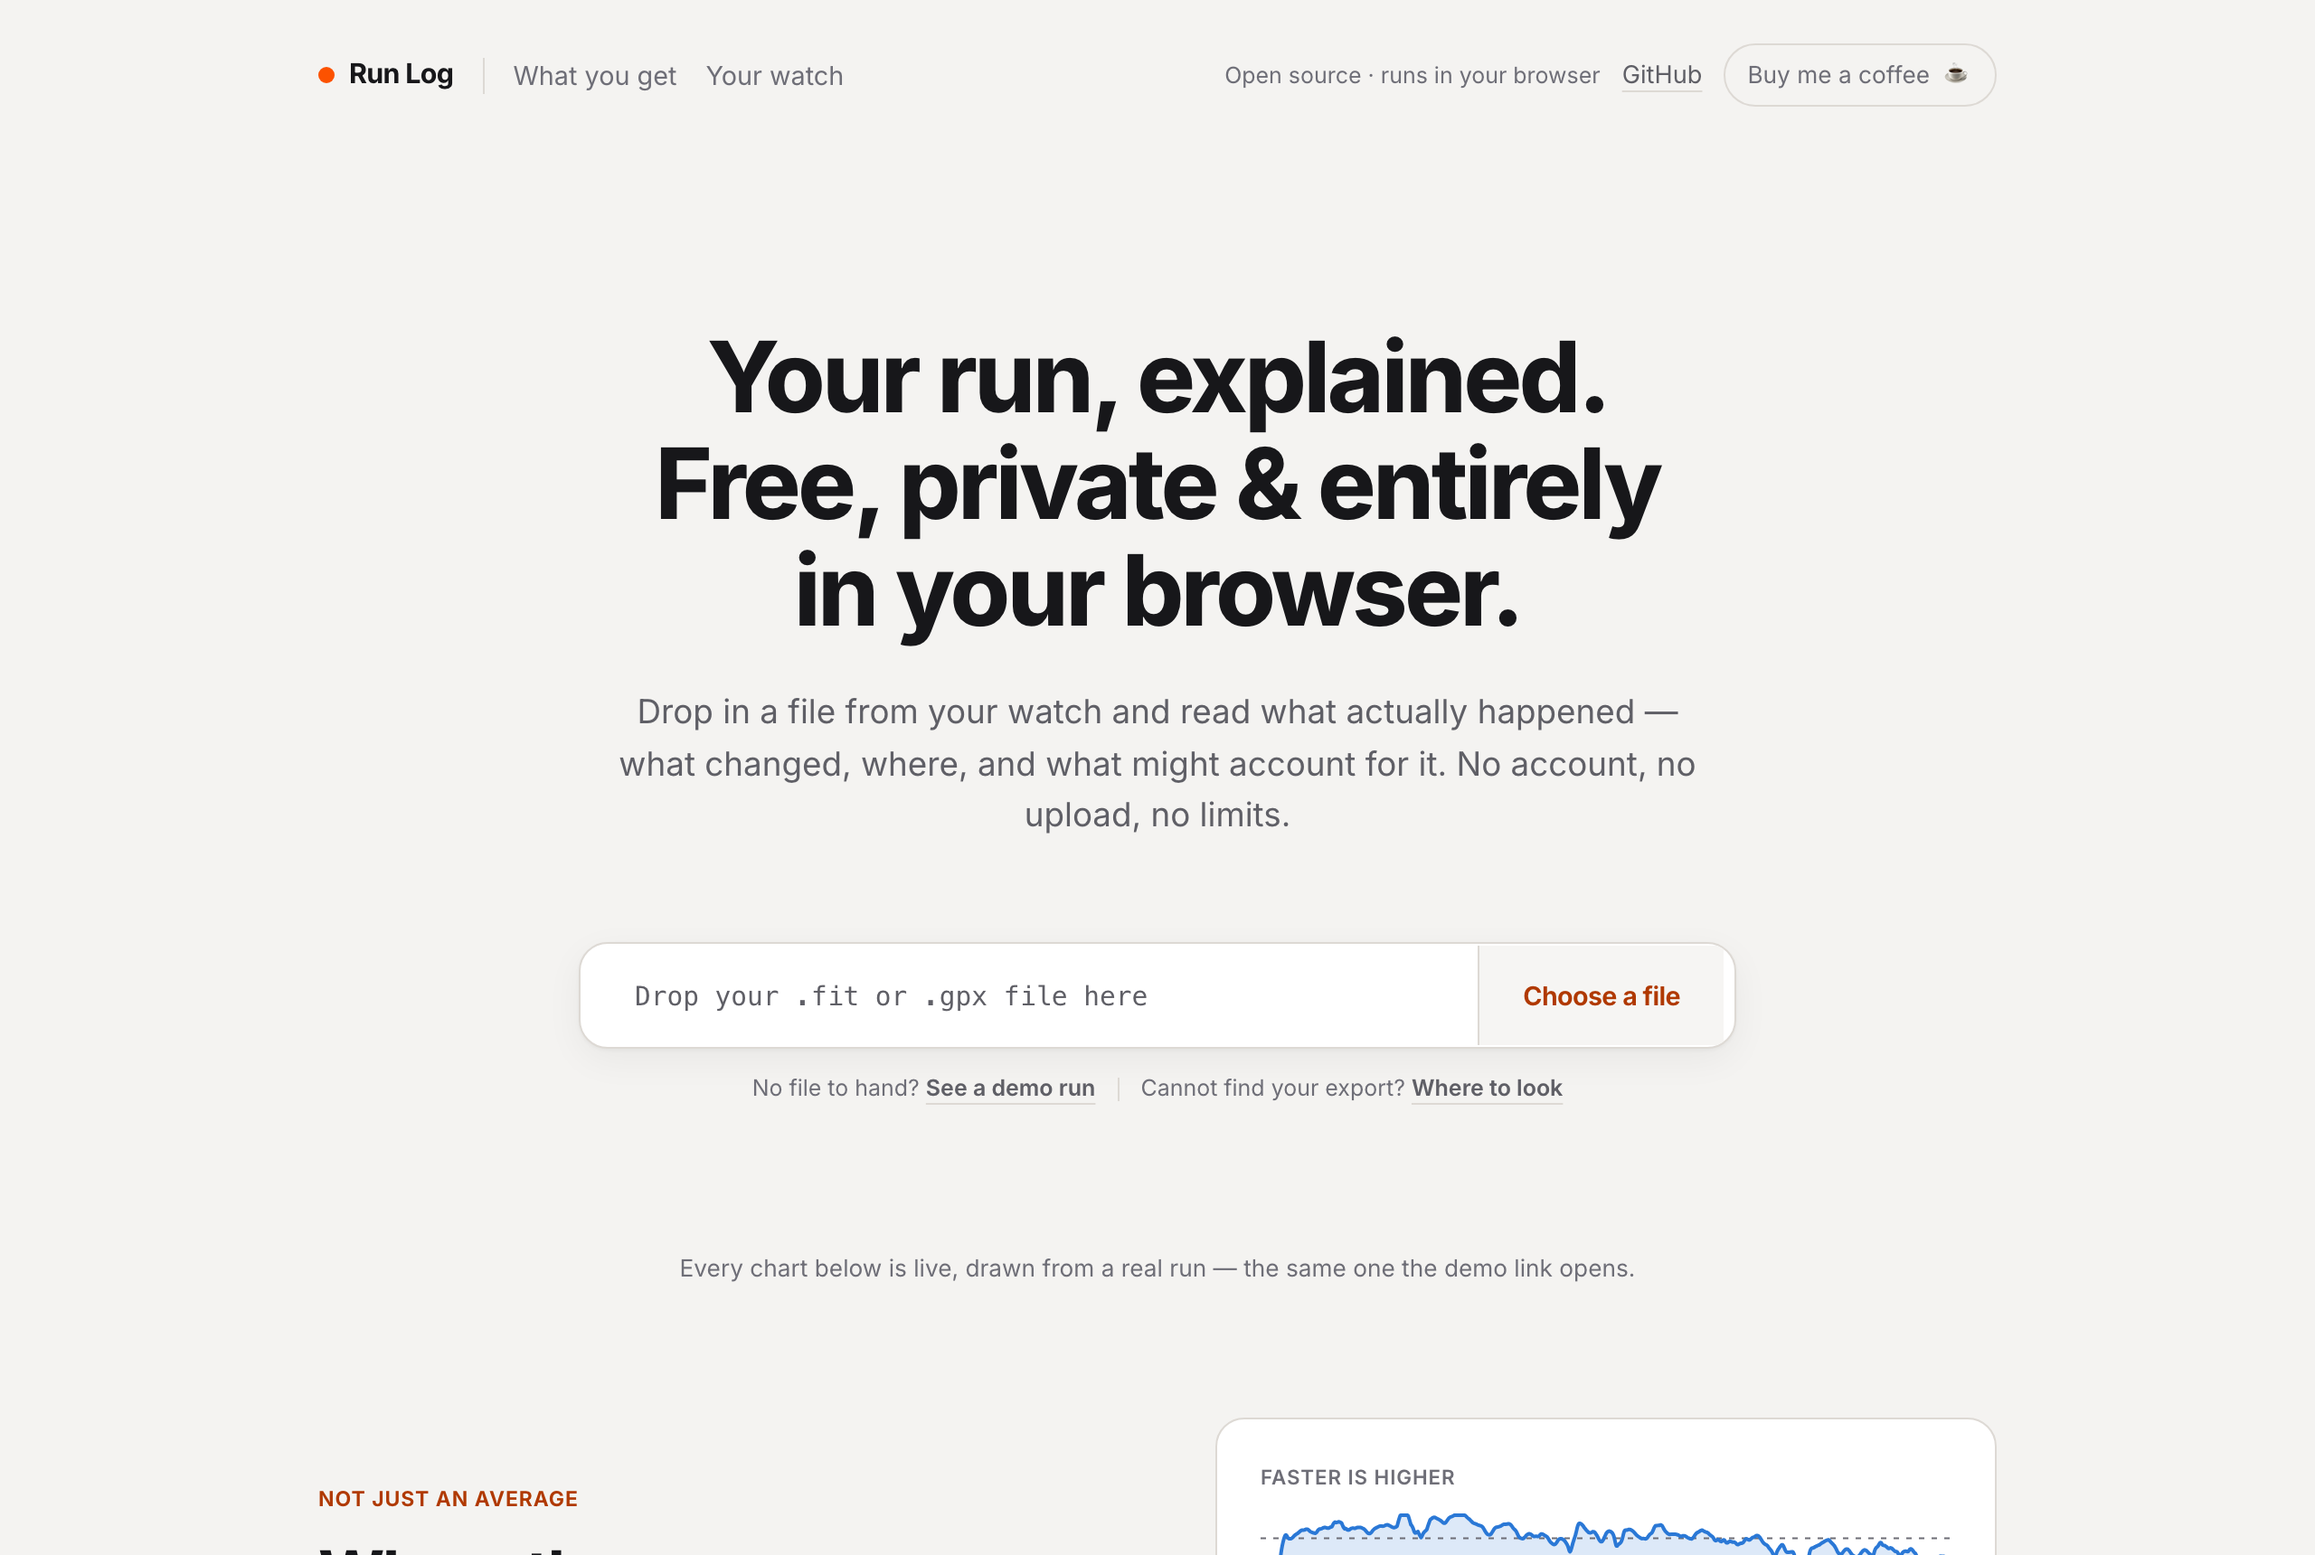
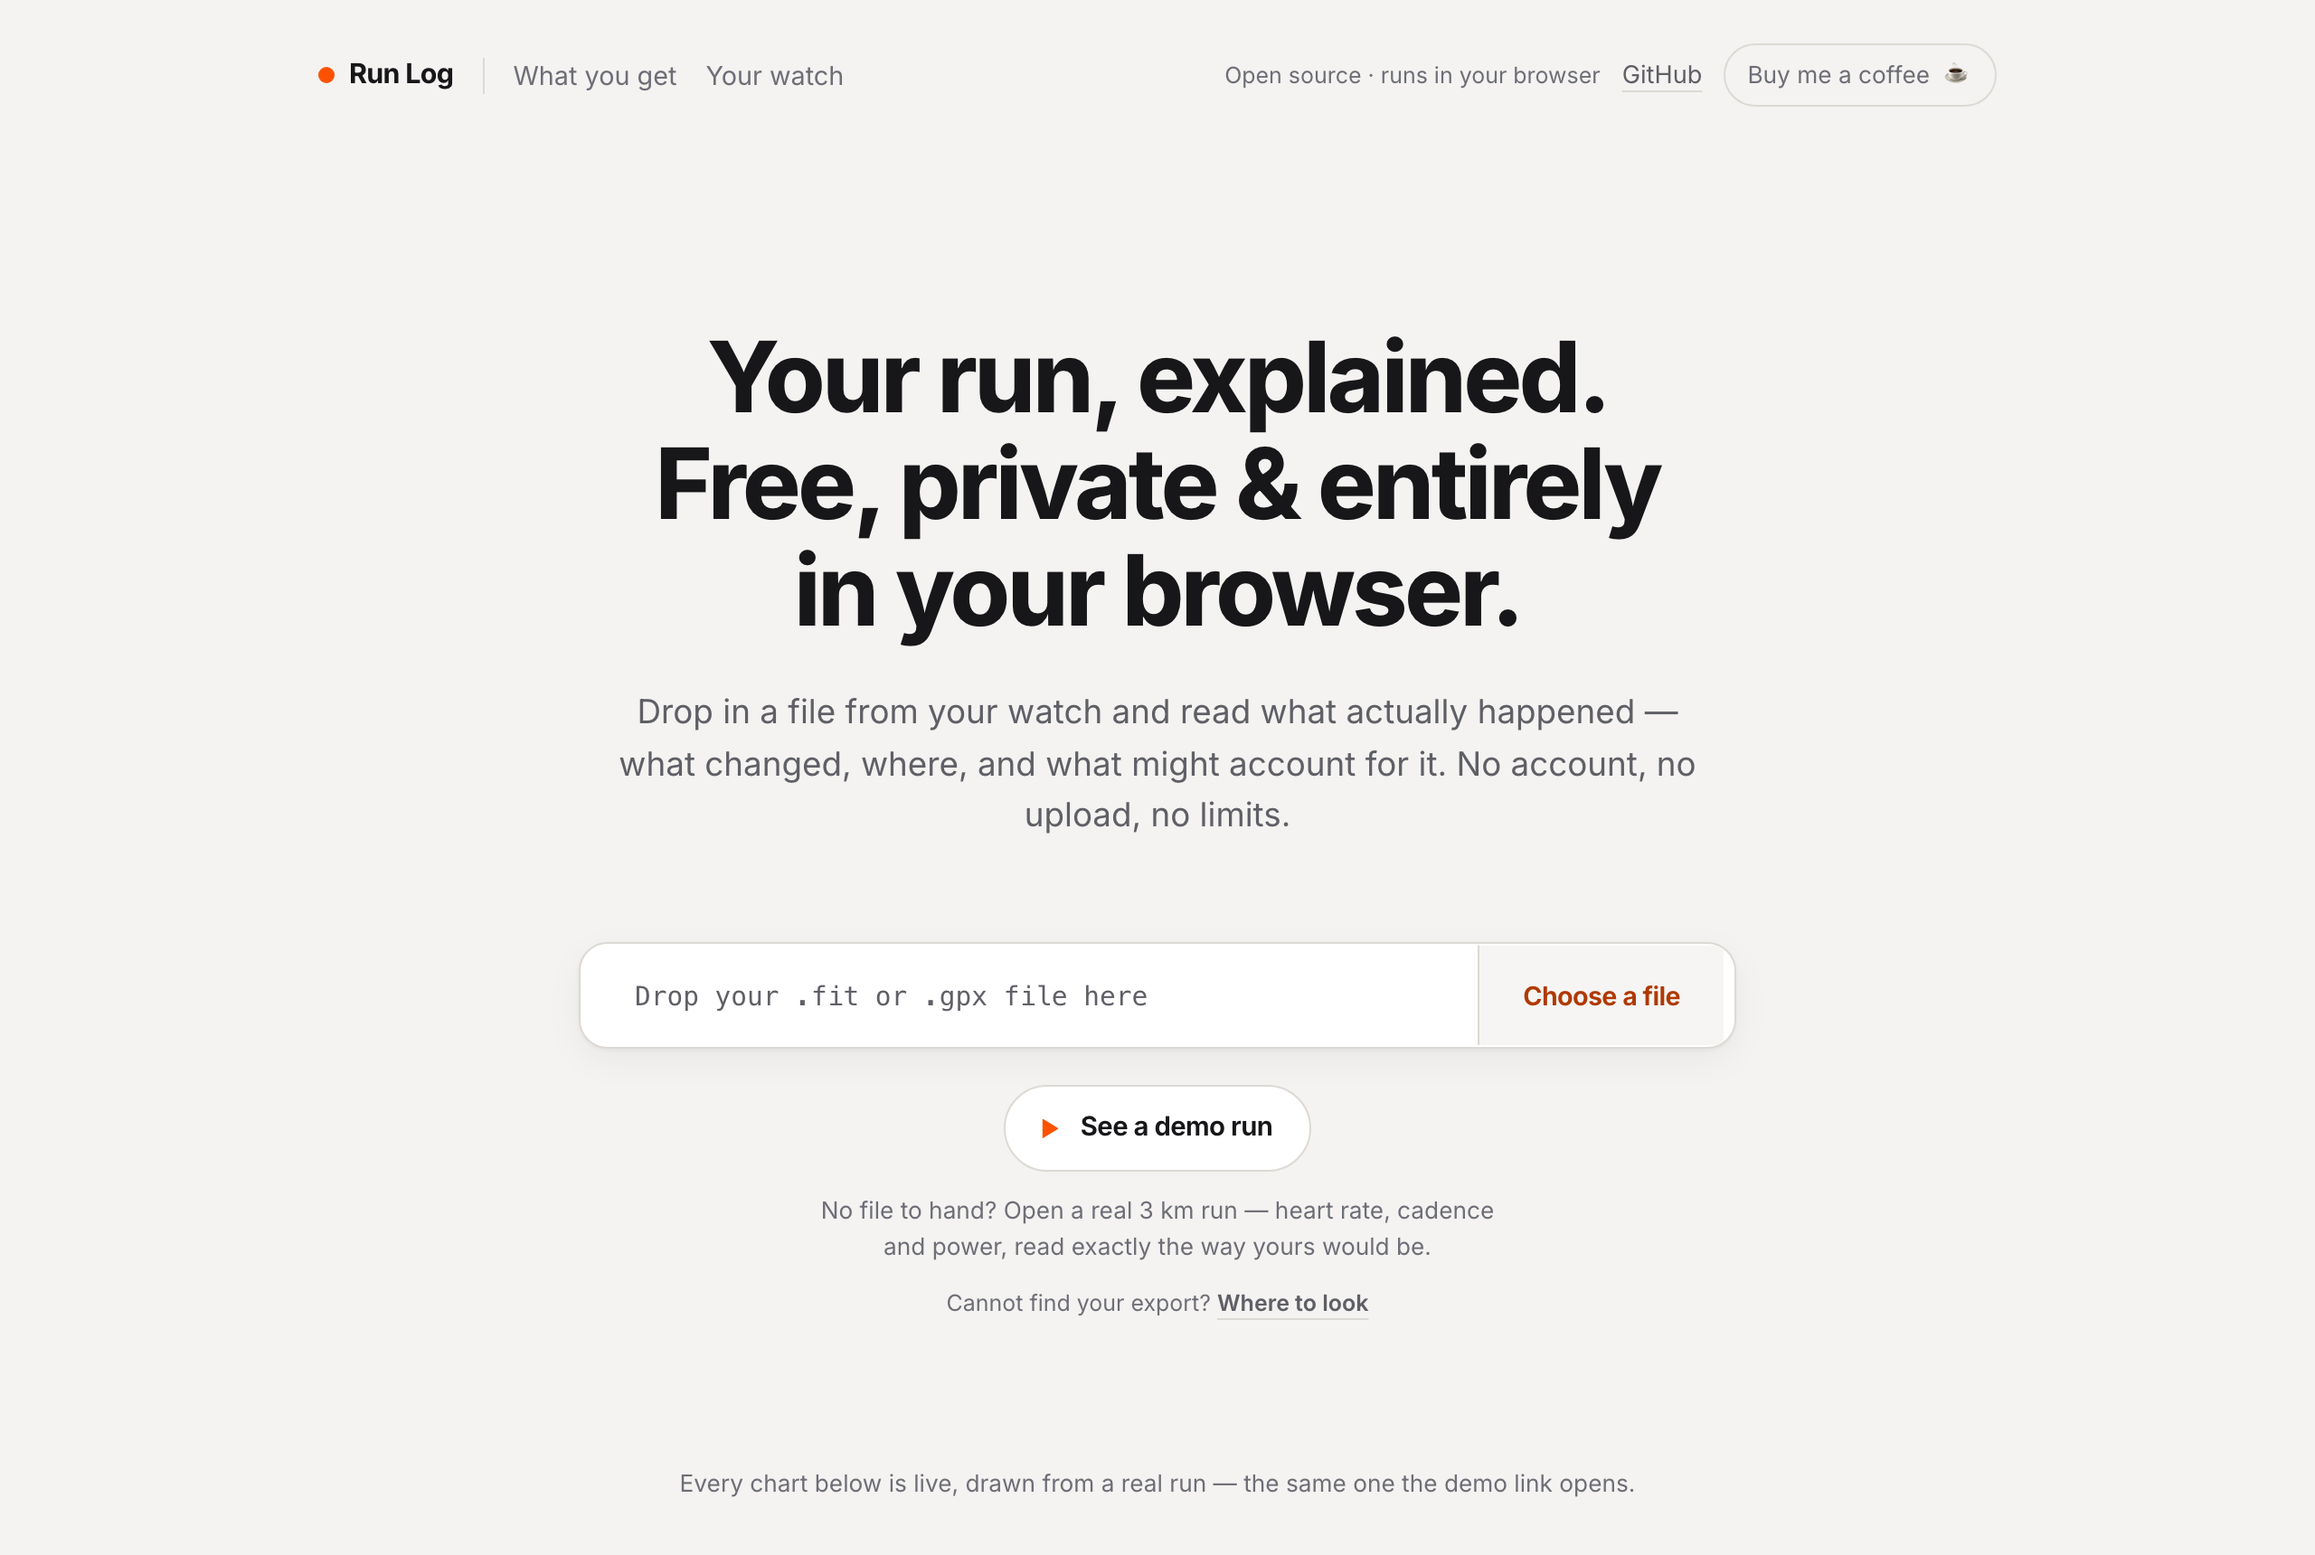
feat(upload): make the demo run a control rather than small print
Most first visits arrive without a file to hand, and nobody goes and fetches an
export to find out whether a page is worth it. The demo was one line of small
print under the box, which asked to be noticed; it is an outlined button now,
which asks to be pressed — still quieter than the drop box, so the reader who
did bring a file is not made to choose between two equal ways in.

It also says what the run is. "A demo" could be three invented data points, and
a real 3 km with heart rate, cadence and power is the thing that answers the
question the button raises.

diff --git a/src/upload/DropZone.tsx b/src/upload/DropZone.tsx
@@ -30,8 +30,14 @@ import styles from "./DropZone.module.css";
  * Handing the file over is deliberately hard to get wrong — a drop anywhere on
  * the window counts, so does a paste, so does clicking the box — because the
  * step before it is already the awkward one, and the source guide below is
- * there for exactly that reason. Anyone with no file at all takes the demo
- * link under the box, which is where this layout puts a second route.
+ * there for exactly that reason.
+ *
+ * Anyone with no file at all takes the demo button under the box. Most first
+ * visits are exactly that: someone who has heard what this does and has not
+ * gone to fetch an export to find out whether it is true. So the demo is a
+ * control rather than the line of small print it used to be, and it says what
+ * the run is — a real 3 km with heart rate, cadence and power — because "a
+ * demo" promises nothing a reader would cross a room for.
  *
  * The file is read locally and never uploaded anywhere, which is worth saying
  * plainly on the screen where a runner hands over their data — it is the last
@@ -190,22 +196,38 @@ export function DropZone() {
                   <span className={styles.dropAction}>Choose a file</span>
                 </button>
 
-                {/* The second and third routes in, at the weight this layout
-                    gives an alternative: a line of small print with the verb
-                    underlined. */}
+                {/* The second route in, and for a first visit usually the
+                    better one: most people arrive without a file to hand and
+                    will not go and fetch one to find out whether this is worth
+                    it. It was a line of small print, which asked them to
+                    notice it; it is a control now, which asks them to press
+                    it. Still quieter than the box — outlined against the box's
+                    fill — because the reader who did bring a file should not
+                    have to choose between two things that look equally like
+                    the way in. */}
+                <div className={styles.demo}>
+                  <button
+                    type="button"
+                    className={styles.demoButton}
+                    onClick={() => void loadDemo()}
+                    disabled={busy}
+                  >
+                    <span className={styles.demoIcon} aria-hidden="true" />
+                    See a demo run
+                  </button>
+                  {/* What the demo actually is, in figures rather than
+                      adjectives. "A demo" could be three invented data points;
+                      3 km with a heart rate is a run, and saying which one it
+                      is answers the question the button raises. */}
+                  <p className={styles.demoNote}>
+                    No file to hand? Open a real 3 km run — heart rate, cadence
+                    and power, read exactly the way yours would be.
+                  </p>
+                </div>
+
+                {/* The third route, still at the weight this layout gives an
+                    alternative: small print with the verb underlined. */}
                 <p className={styles.alternatives}>
-                  <span>
-                    No file to hand?{" "}
-                    <button
-                      type="button"
-                      className={styles.textLink}
-                      onClick={() => void loadDemo()}
-                      disabled={busy}
-                    >
-                      See a demo run
-                    </button>
-                  </span>
-                  <span className={styles.altRule} aria-hidden="true" />
                   <span>
                     Cannot find your export?{" "}
                     <a className={styles.textLink} href="#sources">

diff --git a/src/upload/DropZone.module.css b/src/upload/DropZone.module.css
@@ -322,13 +322,75 @@
 }
 
 /*
- * The other two routes in, at the weight this layout gives an alternative: one
- * line of small print with the verb underlined.
+ * The demo, directly under the box.
  *
- * The demo used to be a card of its own, level with the box — on a first visit
- * it is often the more useful of the two. It is a link here because a hero with
- * two equal controls is not the shape being followed, so it is set in the
- * strongest thing small print has instead.
+ * It has been a card level with the box, then a line of small print, and both
+ * were wrong in the same direction: the first made the hero ask a question
+ * instead of giving one instruction, the second hid the route that most first
+ * visits actually need. This is the middle — unmistakably a control, and
+ * unmistakably the second one. The box is filled and casts a shadow; this is
+ * an outline on the page's own background, which is the difference between
+ * "do this" and "or try this".
+ */
+.demo {
+  display: flex;
+  flex-direction: column;
+  align-items: center;
+  gap: var(--space-3);
+  padding-top: var(--space-2);
+}
+
+.demoButton {
+  display: inline-flex;
+  align-items: center;
+  gap: var(--space-3);
+  padding: 11px 20px;
+  border: 1px solid var(--border-strong);
+  border-radius: var(--radius-pill);
+  background: var(--surface-card);
+  color: var(--text-primary);
+  font-size: 0.92rem;
+  font-weight: 640;
+  letter-spacing: var(--tracking-heading);
+  transition:
+    border-color var(--duration-quick) var(--ease-out),
+    background var(--duration-quick) var(--ease-out);
+}
+
+.demoButton:hover:not(:disabled) {
+  border-color: var(--accent);
+  background: var(--accent-soft);
+}
+
+.demoButton:disabled {
+  opacity: 0.55;
+  cursor: progress;
+}
+
+/* A play triangle, drawn rather than typed: the ▶ character renders at a
+   different weight and baseline in every font a browser might fall back to,
+   and this one has to sit level with the words beside it. */
+.demoIcon {
+  width: 9px;
+  height: 11px;
+  flex: none;
+  background: var(--accent);
+  clip-path: polygon(0 0, 100% 50%, 0 100%);
+}
+
+/* Kept to a readable measure and set below the button rather than beside it —
+   the button is the thing to press, and a sentence next to it would be read
+   first and pressed second. */
+.demoNote {
+  max-width: 46ch;
+  color: var(--text-muted);
+  font-size: 0.82rem;
+  line-height: 1.5;
+}
+
+/*
+ * The last route in, at the weight this layout gives an alternative: one line
+ * of small print with the verb underlined.
  */
 .alternatives {
   display: flex;
@@ -338,12 +400,6 @@
   gap: var(--space-2) var(--space-3);
   color: var(--text-muted);
   font-size: 0.78rem;
-}
-
-.altRule {
-  width: 1px;
-  height: 0.85rem;
-  background: var(--border-strong);
 }
 
 .textLink {
@@ -874,9 +930,7 @@
  *
  * Side by side, the label is squeezed until it is cut off mid-word by the
  * button beside it — and the label is the instruction. Stacked, both get the
- * full width and the split rule turns from a wall into a floor. The two
- * alternatives underneath separate the same way, which is why the rule between
- * them goes: a divider that has wrapped onto the end of a line is only debris.
+ * full width and the split rule turns from a wall into a floor.
  */
 @media (max-width: 559px) {
   .dropBox {
@@ -899,10 +953,6 @@
   .alternatives {
     flex-direction: column;
     gap: var(--space-2);
-  }
-
-  .altRule {
-    display: none;
   }
 
   /* The bar does not wrap, and at this width there is room for the mark and
